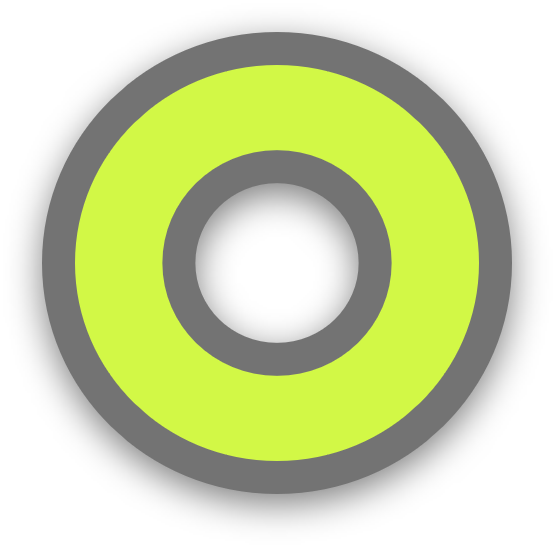
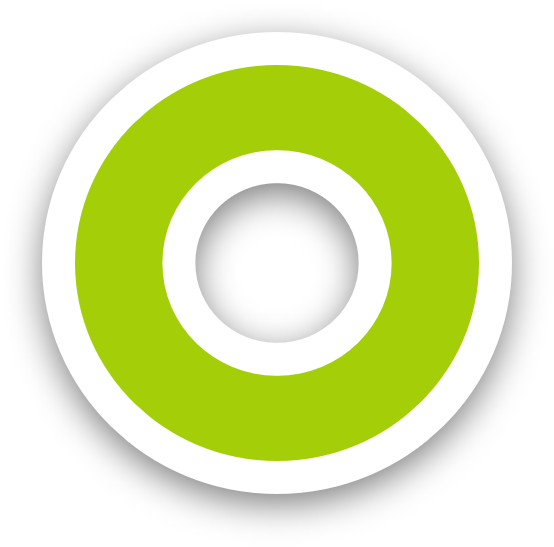
Updated somethings

diff --git a/src/components/Grid.js b/src/components/Grid.js
@@ -27,8 +27,12 @@ import {
     X_INFO_IMAGE,
     DARK_O_INFO_IMAGE, 
     DARK_X_INFO_IMAGE,
+    DARK_COLOR,
+    LIGHT_COLOR,
+    DRAW, DARK_DRAW
  } from './Static'
 import ThemeButton from './ThemeButton';
+
 
 
 class Grid extends Component{
@@ -129,10 +133,9 @@ class Grid extends Component{
 
     changeTheme(){
         this.props.ChangeThemeAction()
-        
     }
 
-    getInfoImage(){
+    getPlayerImage(){
         var source = X_INFO_IMAGE;
         if (this.props.theme==='dark'){
             source = DARK_X_INFO_IMAGE
@@ -142,6 +145,16 @@ class Grid extends Component{
             source = O_INFO_IMAGE
             if (this.props.theme==='dark'){
                 source = DARK_O_INFO_IMAGE
+                
+            }
+        }
+
+        if (this.props.won){
+            if (this.props.won ==='draw'){
+                source = DRAW
+                if (this.props.theme ==='dark'){
+                    source = DARK_DRAW
+                }
             }
         }
 
@@ -151,14 +164,41 @@ class Grid extends Component{
 
     }
 
-    infoText(){
+    getInfoText(){
+        var text = "NEXT";
+        var color = DARK_COLOR
+        var fontSize = 20;
+
+        if (this.props.won)
+            {
+                text = 'WON'
+                fontSize = 30
+
+                if (this.props.won === 'draw'){
+                    text = 'DRAW'
+                    fontSize = 34
+                    imageHidden = true;
+                }
+            }
+
+        if (this.props.theme==='dark'){
+            color = LIGHT_COLOR
+        }
+        return <Text style={[styles.TextStyling, {color:color, fontSize:fontSize}]}>{text}</Text>
+
+    }
+
+    info(){
         if (this.state.fontLoaded){
         return (
-            <View style={{flex:1, justifyContent:'space-between', alignItems:'center', flexDirection:'row'}}>
-                {this.getInfoImage()}
-                <Text style={styles.TextStyling}>
-                's Turn
-                </Text>
+            <View style={{
+                flex:1, 
+                justifyContent:'space-around', 
+                alignItems:'center', 
+                flexDirection:'row'}}>
+                {this.getPlayerImage()}
+
+                {this.getInfoText()}
             </View>)
         }
         return <View/>
@@ -177,7 +217,7 @@ class Grid extends Component{
                 </View>
 
                 <View style={{flex:1.5, alignItems:'center'}}>
-                    {this.infoText()}
+                    {this.info()}
                 </View>
             </View>
 
@@ -210,8 +250,6 @@ class Grid extends Component{
 
 const styles={
     TextStyling:{
-        fontSize:34,
-        color:"rgb(255,0,0)",
         fontFamily:"Gotham-Black"
     }
 }

diff --git a/src/components/Static.js b/src/components/Static.js
@@ -45,6 +45,12 @@ export const X_INFO_IMAGE = require('../../assets/images/light/X_INFO.png')
 export const O_INFO_IMAGE = require('../../assets/images/light/O_INFO.png')
 export const DARK_X_INFO_IMAGE = require('../../assets/images/dark/X_INFO.png')
 export const DARK_O_INFO_IMAGE = require('../../assets/images/dark/O_INFO.png')
+export const DRAW = require('../../assets/images/light/draw.png')
+export const DARK_DRAW = require('../../assets/images/dark/draw.png')
+
+
+export const LIGHT_COLOR = 'rgb(255,255,255)';
+export const DARK_COLOR = 'rgb(50,50,50)'
 
 // Indexes :-
 // const BLANK_PIECE=0

diff --git a/src/components/ClearButton.js b/src/components/ClearButton.js
@@ -1,8 +1,7 @@
 import React from 'react';
 import { TouchableOpacity, Image } from 'react-native';
+import {LIGHT_COLOR, DARK_COLOR} from './Static'
 
-const LIGHT_COLOR = 'rgb(255,255,255)';
-const DARK_COLOR = 'rgb(50,50,50)'
 
 const ClearButton = (props) => {
     var color=LIGHT_COLOR;

diff --git a/src/reducers/ThemeReducer.js b/src/reducers/ThemeReducer.js
@@ -1,8 +1,10 @@
 import { CHNAGE_THEME } from '../actions/types'
+import {
+    LIGHT_COLOR,
+    DARK_COLOR } from '../components/Static'
 
 
-const LIGHT_COLOR = 'rgb(255,255,255)';
-const DARK_COLOR = 'rgb(50,50,50)'
+
 
 const INITIAL_STATE = {
     theme: 'dark',
